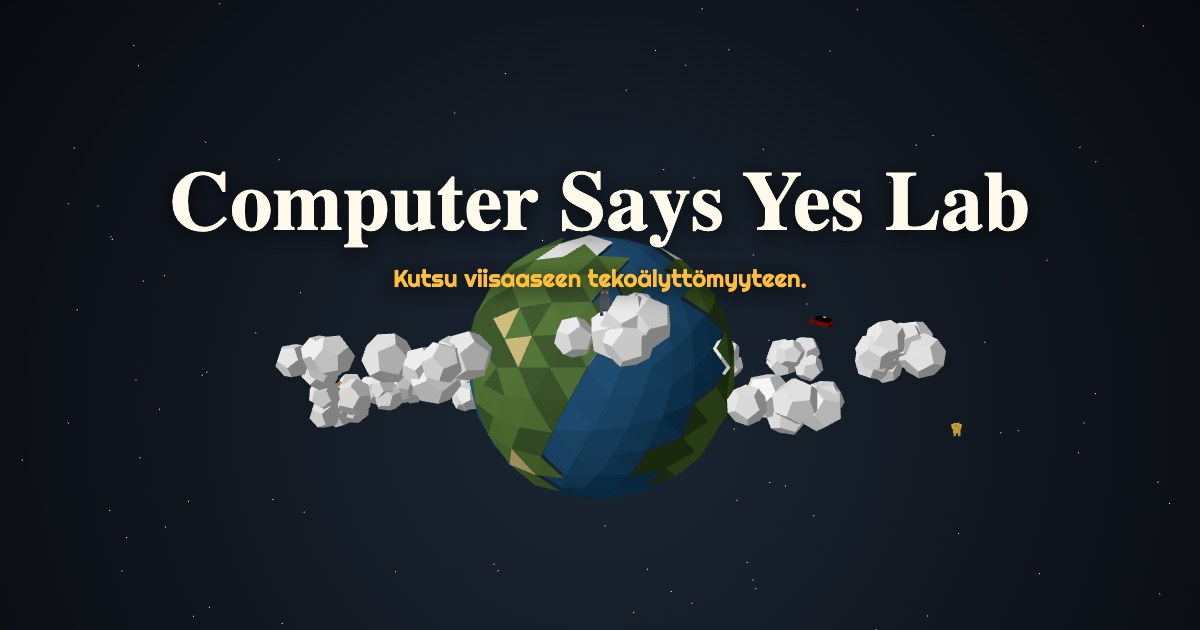
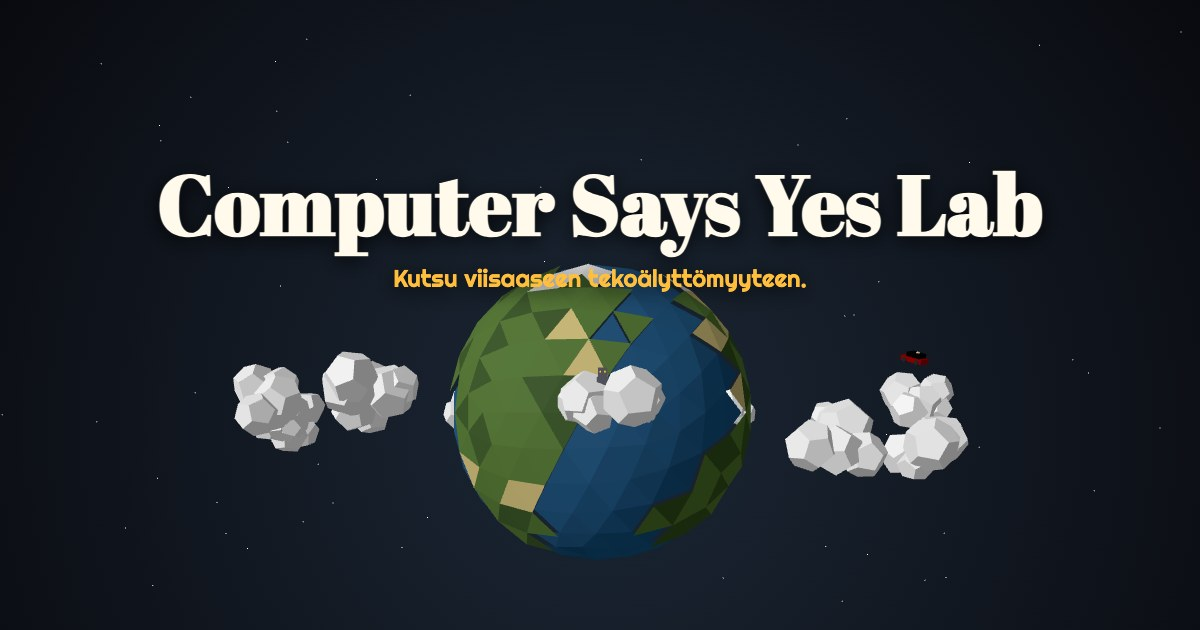
Fix Abril Fatface font name on front page; refresh share image

Changed region(s): [[0.1233, 0.2714, 0.8942, 0.8746]]

diff --git a/index.html b/index.html
@@ -62,7 +62,7 @@
         pointer-events: auto; 
     }
 
-    h1{font-family:"Abril+Fatface",serif; font-size:clamp(2.8rem,7vw,6rem); line-height:1.02; letter-spacing:.2px; margin:0 0 12px}
+    h1{font-family:"Abril Fatface",serif; font-size:clamp(2.8rem,7vw,6rem); line-height:1.02; letter-spacing:.2px; margin:0 0 12px}
     .subtitle{font-family:"Righteous",sans-serif; color:var(--highlight); font-size:clamp(1.1rem,2.2vw,1.5rem); margin:0 0 16px}
     p.lead{max-width:62ch; margin:0 auto 8px; font-size:clamp(1.05rem,1.7vw,1.2rem); line-height:1.7}
 
@@ -71,7 +71,7 @@
     .section-yellow{background:var(--highlight); color:#0a0a0a}
     .section-yellow h2, .section-yellow h3{color:#0a0a0a}
 
-    h2{font-family:"Abril+Fatface",serif; font-size:clamp(2rem,4.5vw,3.2rem); margin:0 0 16px}
+    h2{font-family:"Abril Fatface",serif; font-size:clamp(2rem,4.5vw,3.2rem); margin:0 0 16px}
     h3{font-weight:700; font-size:clamp(1.2rem,2.2vw,1.5rem); margin:20px 0 8px}
     p{max-width:70ch; line-height:1.7}
 
